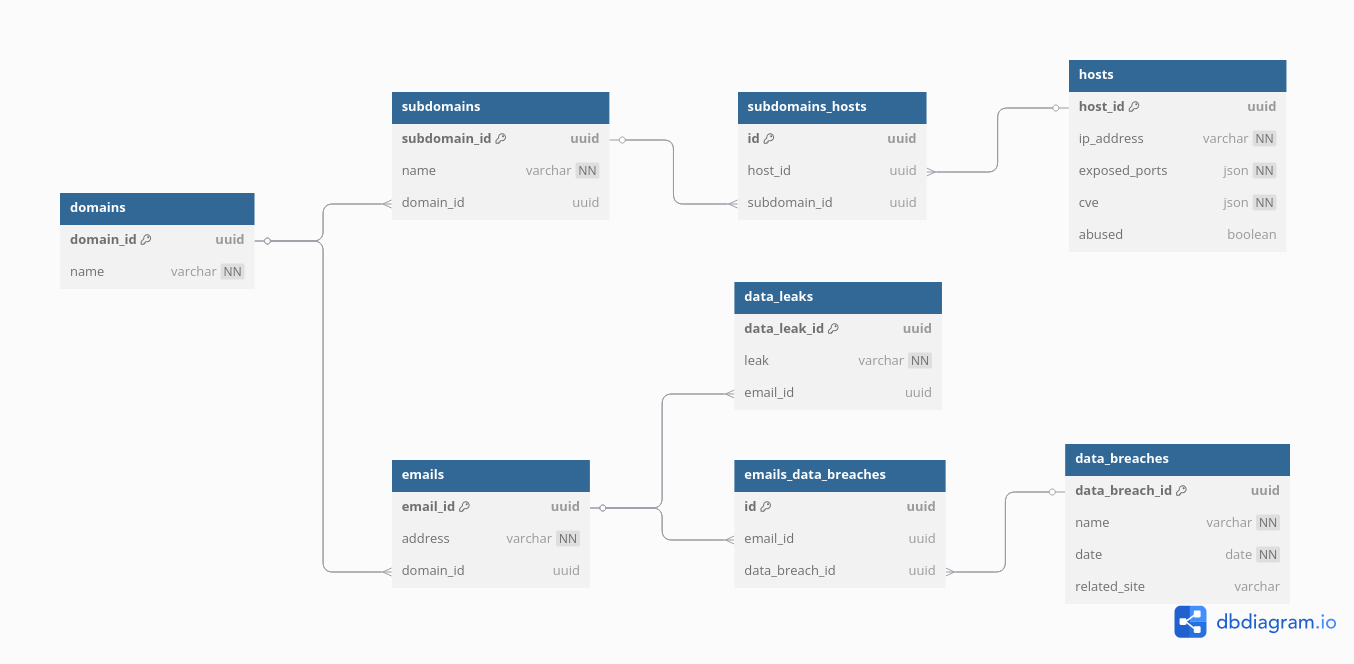
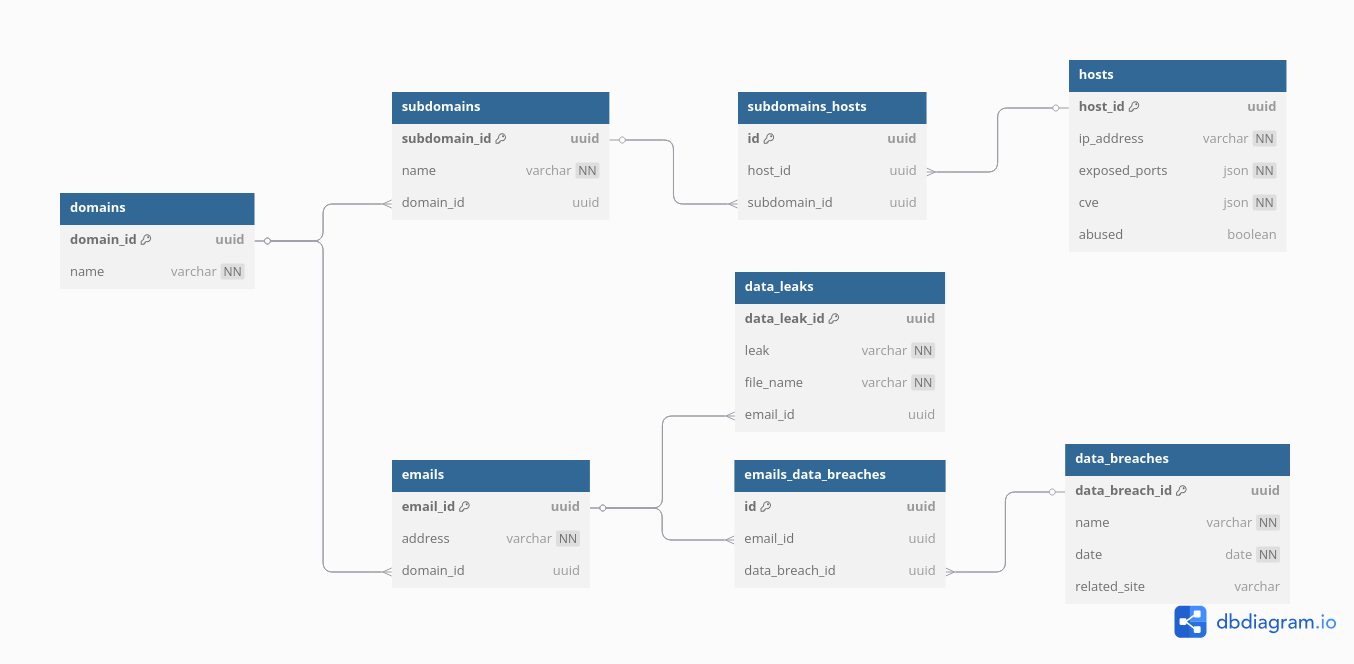
Add api test

Changed region(s): [[0.5273, 0.3916, 0.7134, 0.6024], [0.5273, 0.5723, 0.5894, 0.6325]]

diff --git a/prova-api/src/prova_api/test.py b/prova-api/src/prova_api/test.py
@@ -1,0 +1,110 @@
+import requests as http
+import json
+
+EMAIL_REGEX = r"[a-z0-9!#$%&'*+/=?^_`{|}~-]+(?:\.[a-z0-9!#$%&'*+/=?^_`{|}~-]+)*@(?:[a-z0-9](?:[a-z0-9-]*[a-z0-9])?\.)+[a-z0-9](?:[a-z0-9-]*[a-z0-9])?"
+CREDENTIAL_REGEX = rf"{EMAIL_REGEX}:\S+"
+
+def retrieve_base_urls():
+    base_urls = dict()
+
+    with open("/home/kali/iei/api-base-urls.json", "r") as f:
+        base_urls = json.loads(f.read().strip())
+    
+    return base_urls
+
+def retrieve_api_keys():
+    api_keys = dict()
+
+    with open("/home/kali/iei/api-keys.json", "r") as f:
+        api_keys = json.loads(f.read().strip())
+    
+    return api_keys
+
+class IntelX:
+    def __init__(self, api_key: str):
+        self.api_key = api_key
+        self.base_url = "https://2.intelx.io"
+
+    '''
+    The following function is used to perform a search using the IntelX API.
+    It takes the following parameters:
+        term: str               # The search term to use (e.g., the domain)
+        buckets: list[str]      # The buckets to search in
+        maxresults: int         # The maximum number of results to return
+        sort: int               # The sorting order (0 to 4)
+        media: int              # The media type (0 to 24) 
+        api_key: str           # The API key to use for authentication
+
+    It returns the id to be used to retrieve the search results
+    '''
+    def search(self, term: str, buckets: list[str] = list(), maxresults: int = 1000, sort: int = 2, media: int = 0):
+        # TODO: Validation
+    
+        payload = {
+            "term": term,
+            "buckets": buckets,
+            "maxresults": maxresults,
+            "sort": sort,
+            "media": media,
+            "lookuplevel": 0,
+            "timeout": 0,
+            "datefrom": "",
+            "dateto": "",
+            "terminate": []
+        }
+
+        try:
+            result = http.post(url=f"{self.base_url}/intelligent/search", headers={"x-key": self.api_key}, json=payload)
+            search_id = json.loads(result.text)["id"]
+            return search_id
+        except Exception as e:
+            print(f"Error while performing search request: {e}")
+            return None
+        
+
+    '''
+    The following function is used to export the search results from IntelX API.
+    It takes the following parameters:
+        search_id: str      # The search ID to retrieve results for
+        limit: int          # The number of results to retrieve
+        filetype: str       # The file type to export ("csv" or "zip")
+        api_key: str        # The API key to use for authentication
+    '''
+    def search_export(self, search_id: str, filetype: str, limit: int = 1000):
+        # TODO: Validation
+
+        if filetype not in ["csv", "zip"]:
+            raise ValueError("Invalid file type. Must be 'csv' or 'zip'.")
+
+        try:  
+            result = http.get(url=f"{self.base_url}/intelligent/search/export?id={search_id}&f=1&l={limit}&k={self.api_key}")
+        except Exception as e:
+            print(f"Error while performing search export request: {e}")
+            return None
+        
+        if result.status_code == 200:
+            with open(f"intelx_search_{search_id}.{filetype}", "wb") as f:
+                f.write(result.content)
+            print(f"Search results exported successfully to intelx_search_{search_id}.{filetype}")
+        else:
+            print(f"Error: {result.status_code} - {result.text}")
+            return None
+        
+### END CLASS INTELX ###
+
+def main():
+    api_keys = retrieve_api_keys()
+    
+    intelx = IntelX(api_key=api_keys["intelx"])
+
+    search_id = intelx.search(term="internet-idee.net")
+
+    if search_id is None:
+        print("Error: Search ID is None")
+        return
+    
+    intelx.search_export(search_id=search_id, filetype="zip")
+
+if __name__ == "__main__":
+    main()
+

diff --git a/db.md b/db.md
@@ -42,6 +42,7 @@
     (An instance of this table represents a leak)
     - `data_leak_id` (UUID)
     - `leak` (string) — e.g., `info@example.com:password`
+    - `file_name` (string)
     - `email_id` (UUID)
 
 
@@ -136,6 +137,7 @@ Table emails_data_breaches {
 Table data_leaks {
     data_leak_id uuid [default: "gen_random_uuid()", primary key]
     leak varchar [not null]
+    file_name varchar [not null]
     email_id uuid [ref: > emails.email_id]
 }
 ```
@@ -189,6 +191,7 @@ CREATE TABLE emails_data_breaches (
 CREATE TABLE data_leaks (
     data_leak_id uuid DEFAULT gen_random_uuid() PRIMARY KEY,
     leak VARCHAR NOT NULL,
+    file_name VARCHAR,
     email_id uuid REFERENCES emails(email_id)
 );
 ```
